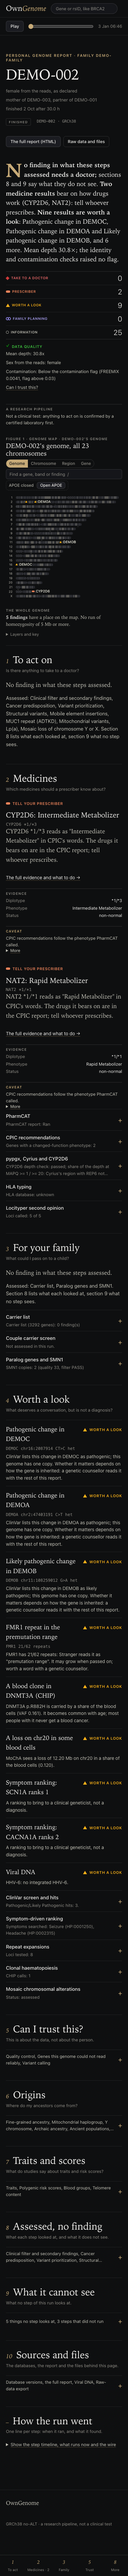
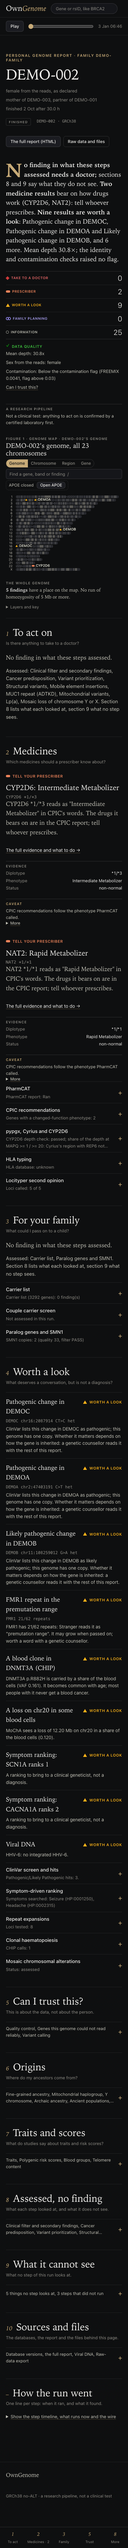
test(live): wait for Nearest to show before reading it; retake the phone picture
The margin, and Nearest with it, follows the settled camera, so a busy
machine can read it before it shows. The phone picture is retaken after
the phone's map canvas stopped growing on the genome view.

Bead: pgp-iqon.9

diff --git a/tests/test_live_demo.py b/tests/test_live_demo.py
@@ -2855,6 +2855,8 @@ def nearest_problems(b, base, out):
     for link, words, chrom in (("#chr11:100.0-101.0M", "Nearest: DEMOB at 108.3 Mb ›", "chr11"),
                                ("#chr3", "Nearest: DEMOB on chr11 ›", "chr11")):
         map_page(b, base, S, link)
+        # The margin, Nearest with it, follows the settled camera; on a busy machine that takes longer.
+        b.wait("!document.querySelector('#genome-map .gm-nearest').hidden", 5)
         n = json.loads(b.eval(NEAR_JS))
         if n["near"] != words:
             bad.append(f"{link}: Nearest reads {n['near']!r}, want {words!r}")
